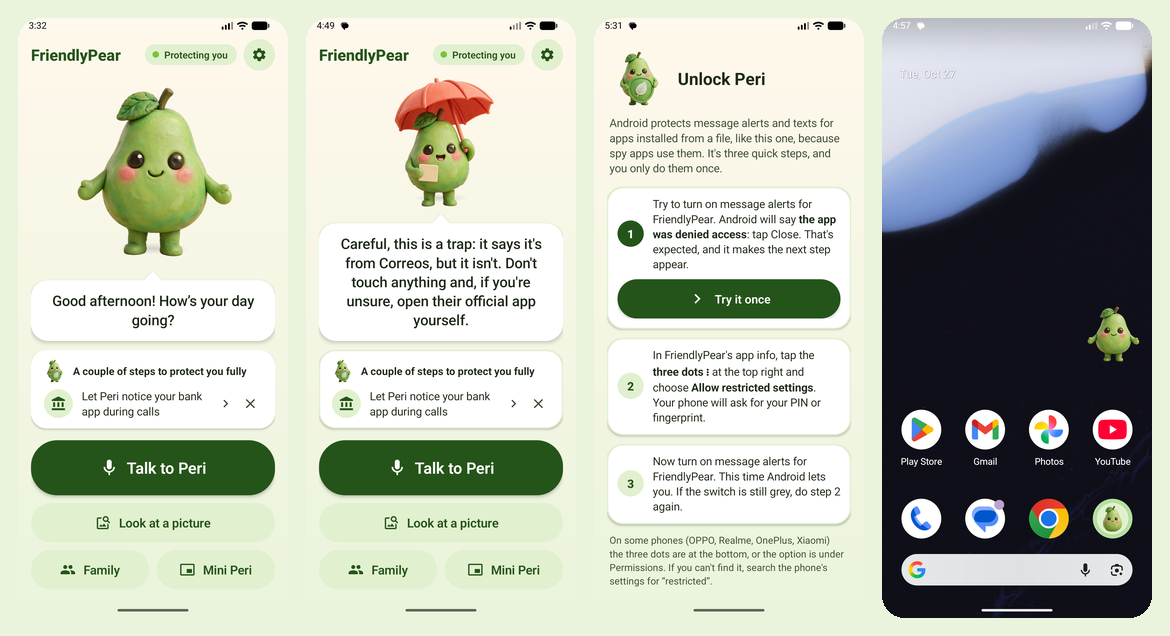
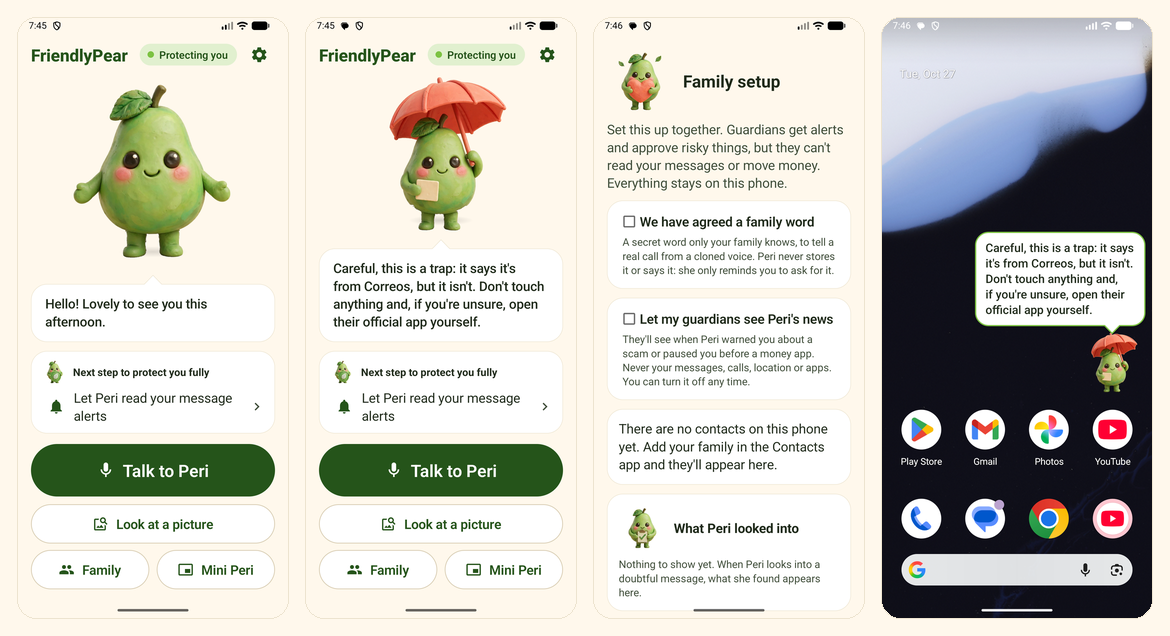
docs: diseño plano y sencillo, poses nuevas de Peri y capturas al día; quita el claim
DISENO.md recoge las reglas de forma (fondo liso, bordes sin sombra, tres
tamaños, un botón verde por pantalla). README, FEATURES y META_MODELS con las
poses nuevas y el ahorro de memoria; capturas nuevas de las pantallas, la
página del guardián y la de emparejamiento, y la tira de reacciones de Peri.

diff --git a/README.md b/README.md
@@ -13,7 +13,7 @@ Built for the **Meta Global AI Developer Hackathon** · Indie track · *Build fo
 > All product code was written Oct 27 – Nov 4, 2026. Concept and design documents were drafted before the building period.
 > The app is bilingual (English and Spanish): it follows the phone's language, or the one chosen in Settings. Internal planning docs under `docs/` are in Spanish.
 
-<p align="center"><img src="docs/media/screens.png" width="860" alt="Four screens: Peri's home, Peri warning about a fake Correos text, the unlock guide, and Mini Peri floating over the home screen"></p>
+<p align="center"><img src="docs/media/screens.png" width="860" alt="Four screens: Peri's home, Peri warning about a fake Correos text, the family setup, and Mini Peri with her speech bubble floating over the home screen"></p>
 
 ## At a glance
 
@@ -21,7 +21,7 @@ Built for the **Meta Global AI Developer Hackathon** · Indie track · *Build fo
 - **Five Meta models, each with one job**: Muse Spark Open (second opinion), Muse Spark (investigator with tools, and "look at this picture" with SAM 3.1), Muse Voice Transcribe (Peri's ears), Muse Image (every picture of Peri) and Muse Spark contributor (training data).
 - **Family double-check, not surveillance**: risky actions wait for a guardian's one-time link ("No" / "Call me first" / "Yes"), flagged **URGENT** if a stranger just called. If the guardian has FriendlyPear too, it opens **Peri to Peri** in their own app. Tested with two phones.
 - **Built to be hard to abuse**: hard rules no model can override, fake "Peri" texts caught, a yes needs the phone's own lock, every phone paired in person with its own key (QR), no backups of secrets ([`docs/SECURITY.md`](docs/SECURITY.md)).
-- **A friend people want to keep**: Peri, a clay pear with 9 moods and about 120 animation frames, introduces herself before asking for anything, reads aloud, calls on a spoken "yes", jokes when you tap her, and floats as Mini Peri over other apps. English and Spanish.
+- **A friend people want to keep**: Peri, a clay pear with 9 moods and about 125 animation frames, introduces herself before asking for anything, reads aloud, calls on a spoken "yes", laughs at her own jokes when you tap her, and floats as Mini Peri over other apps. A calm, flat look built for older eyes: one cream ground, big type in three sizes, one green button per screen. English and Spanish.
 
 ## A companion, not a watchdog
 
@@ -54,7 +54,7 @@ Also working, with unit tests:
 - **"Are they guiding you over the phone?"**: installing a remote-control app (AnyDesk, TeamViewer…) gets a warning and an offer to tell the family; opening a banking app while a stranger is on the line gets *"Please hang up and call your bank yourself on the number on your card."*
 - **Family setup**: guardians, relations, nicknames and whether the family agreed a secret word, set up together on the person's phone. The word itself is never stored: Peri only reminds you to ask for it. Changing who the guardians are needs a current guardian's yes and then waits 48 hours, so nobody can quietly take over the family's protection.
 - **Two modes: the app or Mini Peri**: the full screen, or only the pear (cut out, with her own shadow) floating over other apps. She pops up with a little bounce; tap her to talk (a soft green ring pulses while she listens), drag her and she glides to the nearest side, drop her on the "×" at the bottom to put her away, long-press to open the app. What she says appears in a speech bubble pointing at her, with smaller letters for long sentences so it never covers the screen. She also comes out by herself beside the call screen during a call she placed or a picked-up call from a stranger, and leaves when it ends.
-- **A friend with personality**: Peri greets you by the time of day (said aloud only the first time each day), and she keeps herself busy: she shifts her weight, blinks, glances around and, every few seconds, hops, takes a few steps on the spot, stretches or waves; happy, she runs on the spot and squashes a little as she lands. When you tap her she has an idea and shares a little anti-scam tip; she says sorry when she didn't catch you, and gives a thumbs up when you leave a risky app. Permission explanations are written in her bubble rather than read aloud, so the first start isn't a lecture. The layout keeps Peri on screen with the phone's large text on, and her voice uses Google's speech engine when the phone has it. In **Settings → Peri's voice** you can hear every voice the phone has for her language and pick the nicest; a button leads to Android's speech settings (or Google's engine in the Play Store) for more natural voices.
+- **A friend with personality**: Peri greets you by the time of day (said aloud only the first time each day), and she keeps herself busy: she shifts her weight, blinks, glances around and, every few seconds, hops, takes a few steps on the spot, stretches or waves; happy, she runs on the spot and squashes a little as she lands. When you tap her she has an idea and shares a little anti-scam tip; she says sorry when she didn't catch you, gives a thumbs up when you leave a risky app, holds up a letter while she reads your messages and yawns when she says good night. Permission explanations are written in her bubble rather than read aloud, so the first start isn't a lecture. The layout keeps Peri on screen with the phone's large text on, and her voice uses Google's speech engine when the phone has it. In **Settings → Peri's voice** you can hear every voice the phone has for her language and pick the nicest; a button leads to Android's speech settings (or Google's engine in the Play Store) for more natural voices.
 - **An animated, friendly look**: Peri tilts and bobs smoothly, blinks, glances around, moves her mouth while she speaks and waves hello; each mood moves its own way (bouncy when happy, steady when protecting you, breathing slowly asleep), and she keeps still with "remove animations" on. Big rounded buttons, a status chip ("Protecting you" / "Setup not finished") and a card with any setup step still missing; every text has at least 7:1 contrast.
 - **Welcome before permissions**: on first start Peri introduces herself in four short animated pages (who she is, she stops scams, the family never spies, you decide), with the language choice at the top; only the first page is said aloud. Then permissions come one at a time, each with its reason.
 - **Unlock guide**: installed from a file, Android 13+ locks message alerts and texts ("restricted settings"). Peri walks through Android's own three steps, each opening the exact screen and ticking itself off.
@@ -90,7 +90,7 @@ If the guardian also has FriendlyPear, the request opens **in their own Peri**: 
 
 Every phone gets **its own key** for Peri's server, handed over in person, so a key pulled out of an app can't be used against the family and a lost phone is disconnected on its own. On the computer that runs the server, `bun pair` shows a one-time code and its QR (10 minutes, single use); the phone's camera opens FriendlyPear, which shows the server and the code and asks before connecting. A QR for any other server is refused. The key is kept encrypted by Android's Keystore and never backed up; the server stores only its hash. With `ALLOW_SHARED_TOKEN=0` the shared test key stops working: tested, the paired phone kept its second opinion while an unpaired one fell back to the on-phone rules.
 
-<p align="center"><img src="docs/media/pair-page.jpg" width="420" alt="The pairing page: Peri, a large QR code, the code Z6E6-STBC, a 10-minute countdown and three steps"></p>
+<p align="center"><img src="docs/media/pair-page.jpg" width="420" alt="The pairing page: Peri, a large QR code, the code HCPR-UK6A, a 10-minute countdown and three steps"></p>
 
 How the family features are protected, and what is still open: [`docs/SECURITY.md`](docs/SECURITY.md).
 
@@ -104,7 +104,9 @@ Nine moods in soft 3D clay, every one made with Muse Image from one base so she'
 
 <p align="center"><img src="docs/media/moods.png" width="860" alt="Peri's nine moods: calm, listening, thinking, worried, protective, calling, waiting for family, happy and sleeping"></p>
 
-Tap her and she answers where you touched: her leaf, her tummy (a tip, a joke, a fact or a kind word in turn, each with its own move) or her feet; three quick taps make her dizzy and spin, five and she gives up laughing and dances.
+Tap her and she answers where you touched: her leaf, her tummy (a tip, a joke she laughs at, a fact, or a kind word with floating hearts, in turn) or her feet; three quick taps make her spin and stand there with spiral eyes, five and she gives up laughing and dances.
+
+<p align="center"><img src="docs/media/reactions.png" width="860" alt="Peri's reactions: an idea, a thumbs up, laughing, holding a heart, dizzy with spiral eyes, yawning and reading a letter"></p>
 
 ## Meta models
 
@@ -118,7 +120,7 @@ How each model is used in the engine and for the images, with its limits: [`docs
 | Muse Voice Transcribe | Peri's ears, if the person turns it on in Settings: each voice order is recorded on the phone (it stops after a long pause, for people who speak slowly) and written down by Meta's speech model | Working on the emulator and the real API ("Oye Peri, llama a mi hija, por favor." exact, 1.8 s); off by default |
 | Muse Spark 1.3 contributor | Writes the 1,306 synthetic training messages for the shield's learned weights (`training/generate.ts`); never used to evaluate | Done, a few cents |
 | Muse Spark (multimodal) + SAM 3.1 | "Look at this picture": Spark reads a letter, invoice or screenshot and names the risky things; SAM 3.1 finds the QR code so the phone can mark it | Working on the emulator and the real API |
-| Muse Image | Peri in soft 3D clay (chosen among eight Muse Image designs, `assets/peri/concepts/`): nine illustrated states (calm, listening, thinking, worried, protective, calling, waiting, happy, sleeping), each an edit of one base so she stays the same character, plus animation frames made as edits of each state (two blink steps, three mouth shapes, glances to each side), a wave hello, poses for an idea, "sorry" and a thumbs up, one-foot-up step frames, the app icon and illustrations for the family screen; and the guardian art for the family screens; cut out for any background (about 120 frames in the app, ~$2.50 in all, including 8 designs Peri was chosen from) | In the app, animated; prompts in `assets/peri/prompts.json` |
+| Muse Image | Peri in soft 3D clay (chosen among eight Muse Image designs, `assets/peri/concepts/`): nine illustrated states (calm, listening, thinking, worried, protective, calling, waiting, happy, sleeping), each an edit of one base so she stays the same character, plus animation frames made as edits of each state (two blink steps, three mouth shapes, glances to each side), a wave hello, poses for an idea, "sorry", a thumbs up, a laugh, a heart, dizzy, a yawn and reading a letter, one-foot-up step frames, the app icon and illustrations for the family screen; and the guardian art for the family screens; cut out for any background (about 125 frames in the app, ~$2.55 in all, including 8 designs Peri was chosen from) | In the app, animated; prompts in `assets/peri/prompts.json` |
 
 ## How it decides
 

diff --git a/docs/agentes/estado/IMP-2.md b/docs/agentes/estado/IMP-2.md
@@ -12,12 +12,12 @@ Tareas hechas por IMP-1 a petición de la persona. Todo probado en el emulador (
 - te-estan-guiando: `AppWatcher` + `RemoteApps` (15 apps de control remoto, solo visibles por `<queries>`) → aviso, "cuelga" si hay llamada y oferta de avisar al guardián tras un "sí". `BankWatcher` + `BankApps` (22 apps de bancos) solo durante una llamada descolgada de un desconocido, con acceso al uso explicado.
   - Probado con el puente de depuración (`--es installed`, `--es opened`); el vigilante real detectó el cambio de app durante la llamada. Sin apps reales instaladas.
 - config-familia: `FamilyConfig` en core (aplicada sobre la agenda) + `FamilyStore` (solo en el móvil) + `FamilyActivity` (guardián, relación, apodos, "hemos acordado una palabra"; la palabra nunca se guarda). Probado: apodo "the neighbour" → Marisa; llamada desconocida → "…ask them for the family word".
-- peri-ilustrada: 9 estados con Muse Image (`assets/peri/generate.ts`, base + ediciones; 0,11 $); `core` `Mood` según lo que dice Peri; `ui/peri/PeriFace.kt` con fundido y respiración (sin movimiento si se quitan las animaciones), fondo crema y texto tinta. Probado: tranquila en reposo, protectora con la estafa de Correos.
 - peri-fotogramas, peri-pulido y peri-miradas: 97 imágenes de Muse Image en total (0,98 $; ahora también miradas y boca en "o"). Prueba amplia: `docs/agentes/hallazgos/2026-10-27-prueba-amplia.md`: estados, fotogramas por edición de cada estado (`_blinkhalf`, `_blink`, `_talk`, `_talkwide`), saludo, icono, ilustraciones. `cutout.py` quita el fondo crema (1024 px con transparencia). `PeriFace`: inclinación, bote y sombra pintada por estado de ánimo; los fotogramas se cambian sin fundido (el fundido entre poses hacía doble contorno). `Style.kt` (paleta, `Pill`), `BubbleDrawable`, chip de estado, tarjeta de pasos pendientes, tema de borde a borde, icono adaptativo. Probado: saludo, lupa → paraguas con la boca, Mini Peri recortada, familia en tarjetas.
 - pausa-segura y vista-guardian (móvil): `PauseOverlay` (pantalla completa sobre la app, "seguir" a los 5 s), `BankWatcher` con `keepGoing`; `SharedNews` + `GuardianClient`; casilla "Que mis guardianes vean las novedades de Peri" y "Lo que ven tus guardianes". Probado: timo → pausa → "Salir de esta app" → la página de Ana muestra 1 aviso y 1 pausa; al quitarlo, el enlace da 404.
 - mira-esta-imagen (móvil): `PictureActivity` (selector de fotos o compartir), `MarkedPicture` (anillo rojo y etiqueta), frase propia de Peri por tipo de riesgo; tras un timo se activa la pausa. Con `adb` no se puede compartir una foto (no tiene permiso): probado con el selector.
 - ajustes-idioma: `SettingsActivity` + `LocaleManager` (Android 13+; `localeConfig`, `bundle.language.enableSplit = false`); `PeriApp.onConfigurationChanged` → `PeriHub.languageChanged()` cambia voz y agente y Peri lo dice en el nuevo idioma. Probado: español ↔ igual que el móvil.
 - peri-mini y mini-en-llamadas: `MiniPeriService` (primer plano tipo micrófono o `specialUse`), ventana `TYPE_APPLICATION_OVERLAY`: solo la pera (128 dp), bocadillo con cola que encoge la letra, sale con un bote, se desliza al lado más cercano, "×" abajo para guardarla, anillo al escuchar; sale sola junto a la llamada y se va al colgar. Abrir la app la guarda.
+- diseno-sencillo: guía design-taste-frontend en toda la app y la web (fondo liso, bordes sin sombra, `TextSize` de 3 tamaños, botón verde único, sin círculos de icono ni antetítulo); botón de contactos en Familia; poses risa/corazón/mareo/bostezo/carta y efectos `HEARTS`/`SLEEPY` en `Sparkles`; `PeriFace` decodifica al tamaño y en segundo plano y suelta los fotogramas oculta (Mini Peri fuera: 176 → 65 MB). peri-ilustrada (9 estados, base + ediciones) sigue en `assets/peri/generate.ts`.
 - movil-real-3: `UnlockActivity` (ajustes restringidos en 3 pasos; `restricted()` por `packageSource` 3/4), sin pedir SMS al arrancar si está bloqueada; "×" de Mini Peri ligera; `Sparkles`, `lookToward`, bocadillo que se escribe; dinero "200 EUR"/"me prestas"; `docs/FEATURES.md`.
 - peri-plastilina y peri-viva: Peri en plastilina 3D (base `concepts/concept_clay.webp`), 98 imágenes (0,98 $; `cutout.py` quita el suelo); fotogramas de pasos y acciones solas cada pocos segundos (saltito, pasitos, mirar, estirarse, saludar), peso al lado, aplastamiento al aterrizar, cabeceo al hablar; contenta corre en el sitio. Mini Peri a 100 dp; entrada suave de la pantalla y tarjetas con borde verde. movil-real-2: SMS opcional (pasos con "×"), "La voz de Peri" en Ajustes (`AndroidDevice.voices`/`chooseVoice`), poses idea/perdón/pulgar (`PeriMoment`), 8 diseños en `assets/peri/concepts/`.
 

diff --git a/docs/FEATURES.md b/docs/FEATURES.md
@@ -50,8 +50,8 @@ ColorOS) · 🧪 unit tests in `core/` or `backend/`.
 | **Language** | English or Spanish, following the phone or chosen in Settings; she understands orders in both | ✅ |
 | **Safe reading** | Links, emails, codes and unknown numbers are never read aloud; scams are not read at all, only Peri's warning | 🧪 |
 | **Personality** | Greets you by the time of day (aloud only the first time each day); says sorry when she didn't catch you; thumbs up when you leave a risky app | ✅ 📱 |
-| **Tapping Peri** | Where you touch her matters: her leaf (she winks and complains about her hair), her tummy (in turn: an idea with a tip, a pear joke, a "did you know?" about scams, a kind word, each with its own pose or trick) or her feet (she dances). Three quick taps: dizzy and a spin. Five: she gives up laughing and dances with sparkles. Each list is shuffled and goes round before anything repeats | ✅ |
-| **Animation** | 9 moods in soft 3D clay, each with 13 frames: blinks, three mouth shapes, glances, steps, two hand gestures for talking, and a wink. Between frames she sways her weight, bobs, squashes when landing and nods with each word. Every 7–12 s she does something on her own: a hop, steps or a dance, a spin, a wink, a look around, a stretch, a wave. She drops in when the app opens, squishes like clay under your finger, glances towards where you touch, and sparkles when she's happy. With "remove animations" on, she stays still | ✅ |
+| **Tapping Peri** | Where you touch her matters: her leaf (she winks and complains about her hair), her tummy (in turn: an idea with a tip, a pear joke she laughs at, a "did you know?" about scams with a thumbs up, a kind word with a heart and floating hearts) or her feet (she dances). Three quick taps: a spin, then spiral eyes and stars. Five: she gives up laughing and dances with sparkles. At night she says hello with a yawn and a drifting "z z z"; asked to read your messages, she holds up a letter. Each list is shuffled and goes round before anything repeats | ✅ |
+| **Animation** | 9 moods in soft 3D clay, each with 13 frames: blinks, three mouth shapes, glances, steps, two hand gestures for talking, and a wink. Between frames she sways her weight, bobs, squashes when landing and nods with each word. Every 7–12 s she does something on her own: a hop, steps or a dance, a spin, a wink, a look around, a stretch, a wave. She drops in when the app opens, squishes like clay under your finger, glances towards where you touch, and sparkles when she's happy. Her frames are decoded at the size she's drawn and in the background, and let go while she's hidden (with Mini Peri out, the app went from 176 to 65 MB on the emulator). With "remove animations" on, she stays still | ✅ |
 | **Mini Peri** | Only the pear, floating over other apps: tap to talk (a green ring pulses while she listens), drag (she glides to the nearest side), drop her on the "×" at the bottom to put her away, long-press to open the app. She comes out by herself beside the call screen during a stranger's call and leaves when it ends | ✅ 📱 |
 | **Bubble** | What she says appears as she says it, with smaller letters for long sentences so it never covers her | ✅ |
 

diff --git a/docs/agentes/ROADMAP.md b/docs/agentes/ROADMAP.md
@@ -71,6 +71,7 @@ Entrega: **4 nov 2026, 21:00 ET**. Objetivo propio: 18:00 ET.
 - [ ] (IMP-2) panel-permisos — [M] "Lo que Peri puede hacer": estado de cada permiso, para qué sirve, botón para quitarlo y registro de usos sensibles — android/.../ui/peri/, config/
 - [x] (PUL) docs-hackaton — [S] README con "At a glance" para el jurado, conectar cada móvil, bienvenida, guía de desbloqueo y voz; META_MODELS (diseños, fotogramas, datos de entrenamiento) y ARQUITECTURA al día; página de `bun pair` con Peri, pasos y cuenta atrás — README.md, docs/, backend/src/pair.ts · hecho 2026-10-27
 - [x] (SEG) emparejamiento-qr — [L] clave por dispositivo con QR en persona — android/.../config/, backend/src/ · hecho 2026-10-27 (`bun pair`: código de un uso, 10 min, QR propio sin dependencias verificado con los dos lectores de OpenCV; clave por móvil cifrada con el Keystore, solo hashes en el servidor, desconexión por móvil, `ALLOW_SHARED_TOKEN=0`; un QR de otro servidor se rechaza; sin copias de seguridad)
+- [x] (IMP-2) diseno-sencillo — [M] la app y las páginas web con la guía design-taste-frontend, sin perder el estilo amable: fondo crema liso, bordes finos sin sombras, tres tamaños de letra, un botón verde por pantalla; textos sin jerga y más frases; 5 poses nuevas (risa, corazón, mareo, bostezo, carta, 0,05 $) con corazones y zzz dibujados; fotogramas al tamaño justo y en segundo plano (Mini Peri fuera: 176 → 65 MB) — android/.../ui/peri/, backend/src/, assets/peri/ · hecho 2026-10-27
 - [x] (IMP-2) bienvenida — [M] Peri se presenta antes de pedir permisos: 4 páginas animadas, idioma arriba, solo la primera en voz alta; no sale al actualizar — android/.../ui/peri/WelcomeActivity.kt · hecho 2026-10-27
 - [x] (IMP-1) circulo-reglas — [S] segundo guardián y 48 h para cambios — core/.../trust/ · hecho 2026-10-27 (el sí de un guardián actual + 48 h; la persona puede cancelar)
 

diff --git a/docs/DISENO.md b/docs/DISENO.md
@@ -30,10 +30,18 @@ Colores de la interfaz (`ui/peri/Style.kt`), todos ≥ 7:1:
 | Rol | Color | Texto encima | Contraste |
 |---|---|---|---|
 | Verde bosque (botón principal) | `#25541A` | Blanco | 8,89:1 ✅ |
-| Verde brote (botones secundarios, chip "Protecting you") | `#E1F0CF` | Verde bosque | 7,44:1 ✅ |
-| Blanco (tarjetas, bocadillo) | `#FFFFFF` | Tinta / tinta suave `#3F4D39` | 14,95:1 / 9,01:1 ✅ |
-| Prado (final del degradado del fondo) | `#EAF4DC` | Tinta | 13,15:1 ✅ |
+| Verde brote (chip "Protecting you", idioma elegido) | `#E1F0CF` | Verde bosque | 7,44:1 ✅ |
+| Blanco (tarjetas, bocadillo, botones secundarios) | `#FFFFFF` | Tinta / tinta suave `#3F4D39` / verde bosque | 14,95:1 / 9,01:1 / 8,89:1 ✅ |
+| Borde de tarjeta / de botón | `#EDE4D0` / `#D8CCB2` | (no lleva texto) | — |
 | Ámbar claro (chip "Setup not finished", cambios pendientes) | `#FFEBC7` | Ámbar oscuro `#6B3E00` | 7,76:1 ✅ |
+
+**Forma (27 oct, guía design-taste-frontend, conservando la paleta y el tono de Peri):**
+- Un solo fondo crema liso en todas las pantallas y en las páginas web; nada de degradados.
+- Tarjetas y bocadillo blancos con un borde fino, sin sombra: solo lleva sombra lo que flota (Mini Peri sobre otras apps).
+- Tres tamaños de letra (`TextSize` en `Style.kt`): títulos 26, todo lo que se lee o se pulsa 20, letra pequeña 16. En la web, 26 / 19 / 15.
+- Un único botón verde relleno por pantalla (la acción principal); los demás, blancos con borde y letra verde. Todos los botones son píldoras redondas.
+- Texto alineado a la izquierda; solo la bienvenida y las pantallas de un único momento (pausa, conectar el móvil) van centradas.
+- Sin iconos dentro de círculos de color, sin antetítulos encima de los títulos y sin emojis.
 
 **Nunca solo color:** cada estado lleva también icono y palabra ("Todo bien", "Cuidado", "Es una trampa"), para personas que no distinguen colores.
 

diff --git a/docs/META_MODELS.md b/docs/META_MODELS.md
@@ -62,9 +62,9 @@ All of Peri is made with **Muse Image** (`muse-image-1.0`, `/v1/images/generatio
 1. **Eight designs to choose from** (`assets/peri/concepts.ts`: clay, watercolour, sticker, grandma, hero, geometric, plush, anime). The person chose **soft 3D clay**, which became the base.
 2. Each of her nine moods is an **edit of that base**, so she stays the same character.
 3. Each mood has 12 animation frames, each an edit of **its mood's own image** that changes one small thing and keeps the pose and framing: two blink steps, three mouth shapes, two glances, a foot lifted on each side, two hand gestures for talking and a wink.
-4. Extras made the same way: a wave hello, an idea, "sorry", a thumbs up, the app icon, the family heart, the shield, and **Peri the guardian** holding a phone (calm and urgent) for the family screens and the guardian's web page.
+4. Extras made the same way: a wave hello, an idea, "sorry", a thumbs up, a laugh, a heart, dizzy spiral eyes, a yawn, reading a letter, the app icon, the family heart, the shield, and **Peri the guardian** holding a phone (calm and urgent) for the family screens and the guardian's web page.
 
-About 120 frames ship in the app, from roughly 250 generations (about $2.50 in all, re-dos included). Every prompt is saved in [`assets/peri/prompts.json`](../assets/peri/prompts.json). [`assets/peri/cutout.py`](../assets/peri/cutout.py) removes the cream background and the floor so she stands on any screen.
+About 125 frames ship in the app, from roughly 255 generations (about $2.55 in all, re-dos included). Every prompt is saved in [`assets/peri/prompts.json`](../assets/peri/prompts.json). [`assets/peri/cutout.py`](../assets/peri/cutout.py) removes the cream background and the floor so she stands on any screen.
 
 ## For the training data
 
